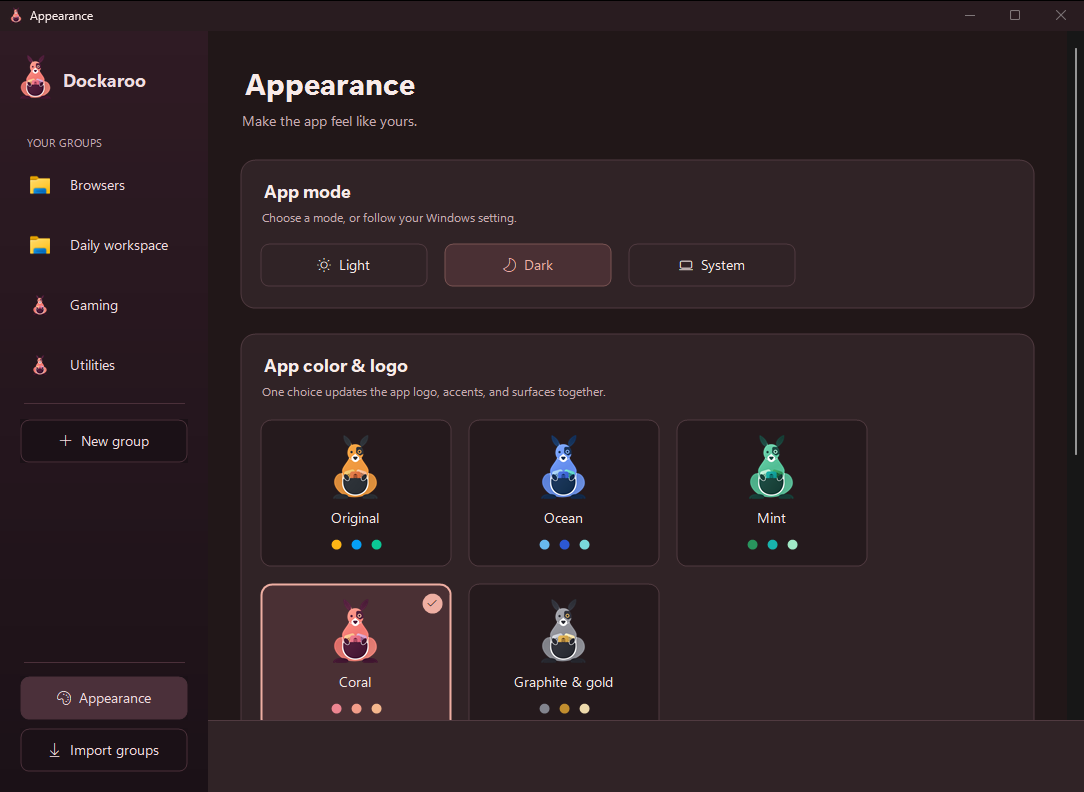
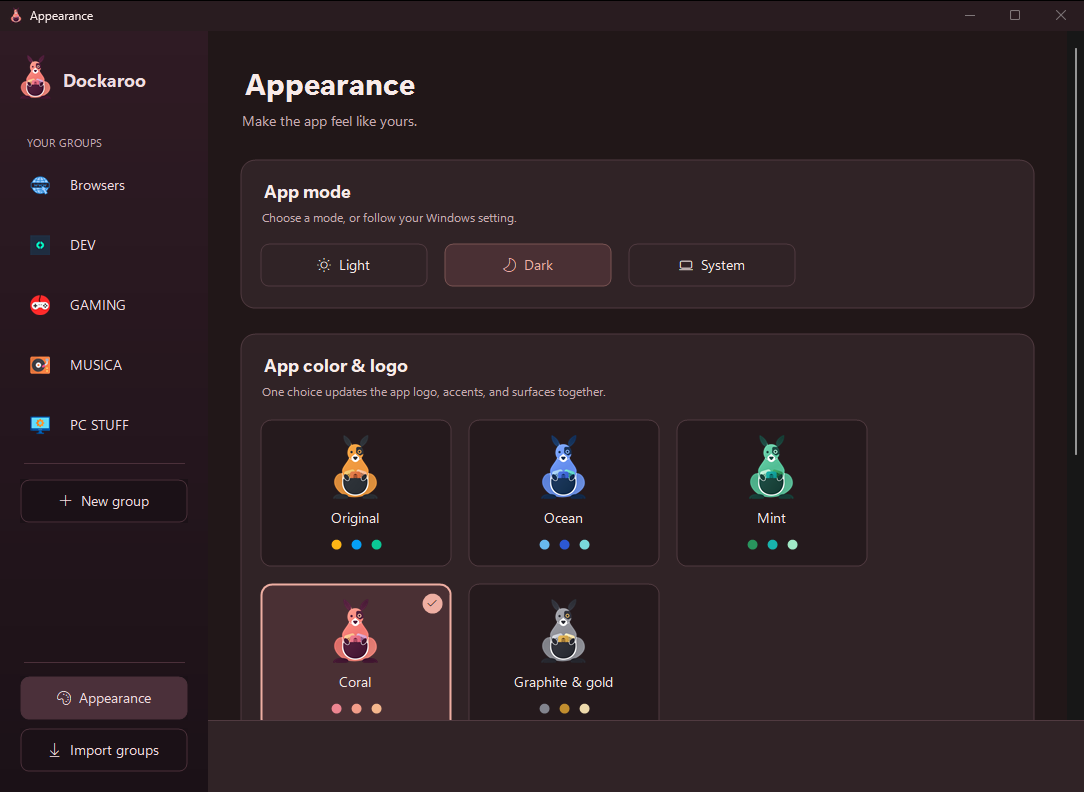
README: my real groups, grey palette, centred hero
- Hero: my DEV group's popup, centred on its button in the middle of
  the taskbar, with my other pinned groups and the graphite & gold tray
  icon. Transparency strip uses the same popup.
- Editor and Appearance shots show my groups in Graphite & gold.
  EditorCapture can now copy chosen group folders from a config dir
  (read-only) and open one of them; it also captures graphite dark.
- Header logo is the graphite & gold kangaroo.

diff --git a/tools/EditorCapture/Program.cs b/tools/EditorCapture/Program.cs
@@ -1,11 +1,14 @@
 // Editor capture: the editor and Appearance page in several palettes/modes and two window sizes.
 // Off-screen at (-32000,-32000), SW_SHOWNOACTIVATE, PrintWindow; temp data only; never activated.
-// Usage: EditorCapture <outDir>  (PNG files + editor-capture.txt log)
+// Usage: EditorCapture <outDir> [<configDir> <openGroup> <groupFolder>...]
+//   (PNG files + editor-capture.txt log). With a config dir, the listed group folders are COPIED
+//   into the temp root (the source is only read) and <openGroup> is shown instead of the sample.
 using System;
 using System.Collections.Generic;
 using System.Drawing;
 using System.Drawing.Imaging;
 using System.IO;
+using System.Linq;
 using System.Reflection;
 using System.Runtime.InteropServices;
 using System.Windows.Forms;
@@ -28,15 +31,29 @@ internal static class Program
             ("mint", ResolvedMode.Dark, 1440, 960, "appearance-mint-dark-1440", true),
             ("graphite-gold", ResolvedMode.Light, 1440, 960, "appearance-graphite-light-1440", true),
             ("coral", ResolvedMode.Dark, 1100, 800, "appearance-coral-dark-1100", true),
+            ("graphite-gold", ResolvedMode.Dark, 1440, 960, "graphite-dark-1440", false),
+            ("graphite-gold", ResolvedMode.Dark, 1440, 960, "appearance-graphite-dark-1440", true),
         };
+        var sourceConfig = args.Length > 2 ? args[1] : null;
+        var openGroup = sourceConfig is null ? "Daily workspace" : args[2];
 
         try
         {
             Application.SetHighDpiMode(HighDpiMode.PerMonitorV2);
             Application.EnableVisualStyles();
-            var store = new GroupStore(Path.Combine(root, "config"));
             var sys = Environment.SystemDirectory;
             var win = Environment.GetFolderPath(Environment.SpecialFolder.Windows);
+            if (sourceConfig is not null)
+            {
+                foreach (var folder in args.Skip(3))
+                {
+                    CopyDirectory(Path.Combine(sourceConfig, folder), Path.Combine(root, "config", folder));
+                }
+            }
+
+            var store = new GroupStore(Path.Combine(root, "config"));
+            if (sourceConfig is null)
+            {
             Seed(store, "Daily workspace", 6, true, 10,
                 (Path.Combine(win, "explorer.exe"), "Browser", "", ""),
                 (Path.Combine(sys, "notepad.exe"), "Code editor", "--new-window", @"C:\Projects"),
@@ -45,6 +62,7 @@ internal static class Program
             Seed(store, "Browsers", 6, false, 10, (Path.Combine(win, "explorer.exe"), "Explorer", "", ""));
             Seed(store, "Gaming", 6, false, 10, (Path.Combine(sys, "taskmgr.exe"), "Task manager", "", ""));
             Seed(store, "Utilities", 6, false, 10, (Path.Combine(sys, "calc.exe"), "Calculator", "", ""));
+            }
 
             var app = Assembly.Load("Dockaroo");
             var themeType = app.GetType("Dockaroo.App.Editor.Theming.StaticThemeSource", true);
@@ -81,12 +99,16 @@ internal static class Program
                 editor.Size = new Size(run.W, run.H);
                 ShowWindow(editor.Handle, 4);
 
-                // Sample state from the spec: "Daily workspace", second shortcut selected, one edit (dirty).
-                editorType.GetMethod("LoadGroupByName", BindingFlags.Instance | BindingFlags.NonPublic).Invoke(editor, new object[] { "Daily workspace" });
+                // Sample state from the spec: "Daily workspace", second shortcut selected, one edit
+                // (dirty). Real groups are shown as saved, with their third shortcut selected.
+                editorType.GetMethod("LoadGroupByName", BindingFlags.Instance | BindingFlags.NonPublic).Invoke(editor, new object[] { openGroup });
                 var entries = editorType.GetField("_entries", BindingFlags.Instance | BindingFlags.NonPublic).GetValue(editor);
-                entries.GetType().GetMethod("SelectIndex").Invoke(entries, new object[] { 1 });
-                var width = editorType.GetField("_width", BindingFlags.Instance | BindingFlags.NonPublic).GetValue(editor);
-                width.GetType().GetProperty("Value").SetValue(width, 4);
+                entries.GetType().GetMethod("SelectIndex").Invoke(entries, new object[] { sourceConfig is null ? 1 : 2 });
+                if (sourceConfig is null)
+                {
+                    var width = editorType.GetField("_width", BindingFlags.Instance | BindingFlags.NonPublic).GetValue(editor);
+                    width.GetType().GetProperty("Value").SetValue(width, 4);
+                }
 
                 if (run.Appearance)
                 {
@@ -111,6 +133,15 @@ internal static class Program
         finally
         {
             try { Directory.Delete(root, true); } catch { }
+        }
+    }
+
+    private static void CopyDirectory(string from, string to)
+    {
+        Directory.CreateDirectory(to);
+        foreach (var file in Directory.GetFiles(from))
+        {
+            File.Copy(file, Path.Combine(to, Path.GetFileName(file)));
         }
     }
 

diff --git a/README.md b/README.md
@@ -9,7 +9,7 @@
 </p>
 
 <p align="center">
-  <img src="docs/images/hero.png" alt="A Dockaroo popup open above its pinned taskbar button">
+  <img src="docs/images/hero.png" alt="My DEV group's popup open above its pinned taskbar button">
 </p>
 
 Windows 11 took away taskbar toolbars, so you either pin every app you use or dig through the
@@ -17,8 +17,10 @@ Start menu. Dockaroo puts a group of apps behind a single taskbar button. Click 
 small popup opens right on top of it, drawn to look like part of the taskbar. Click an app and
 it launches. Click anywhere else and the popup is gone.
 
-Dockaroo is a work in progress. It already runs my own taskbar. The screenshots below come
-from the app itself (see [How the screenshots were made](#how-the-screenshots-were-made)).
+Dockaroo is a work in progress. It already runs my own taskbar: Browsers, GAMING, DEV, MUSICA
+and PC STUFF are all Dockaroo groups, and the image above is my DEV group open. The screenshots
+come from the app itself (see [How the screenshots were made](#how-the-screenshots-were-made)).
+
 
 ## What it does
 
@@ -47,7 +49,7 @@ from the app itself (see [How the screenshots were made](#how-the-screenshots-we
 Groups, their shortcuts, popup settings and a live taskbar preview on one page. You can drag
 apps, shortcuts or folders onto the list.
 
-![Group editor, Mint palette, dark mode](docs/images/editor-dark.png)
+![Group editor showing my DEV group, Graphite & gold palette, dark mode](docs/images/editor-dark.png)
 
 ![Group editor, Ocean palette, light mode](docs/images/editor-light.png)
 
@@ -55,7 +57,7 @@ apps, shortcuts or folders onto the list.
 
 One choice sets the app logo, accents and surfaces, and the tray icon follows it.
 
-![Appearance page, Mint, dark](docs/images/appearance-dark.png)
+![Appearance page, Graphite & gold, dark](docs/images/appearance-dark.png)
 
 ![Appearance page, Graphite & gold, light](docs/images/appearance-light.png)
 
@@ -71,7 +73,7 @@ A cyborg kangaroo with the group's apps in its pouch, in all five palettes.
 
 ### Popup transparency
 
-The same popup at 0%, 40% and 80% transparency. Only the background fades.
+My DEV popup at 0%, 40% and 80% transparency. Only the background fades.
 
 ![The same popup at 0, 40 and 80 percent transparency](docs/images/transparency.png)
 
@@ -93,7 +95,7 @@ Done:
 - [x] Per-monitor DPI (PerMonitorV2) for the popup and the editor
 - [x] Importer for the legacy app's configuration
 - [x] Popup transparency on the background only
-- [x] Test suite: 298 core tests and 167 app tests (xUnit)
+- [x] Test suite: 298 core tests and 168 app tests (xUnit)
 
 Next:
 
@@ -146,10 +148,10 @@ tools/               off-screen capture tools used for visual checks
 ## How the screenshots were made
 
 The editor screenshots come from `tools/EditorCapture`, which opens the real editor off-screen
-with sample data and captures it with `PrintWindow`. The popup images are the popup's own
-rendered frames (the exact bitmap the window shows) placed over a drawn backdrop and taskbar.
-None of them are mockups of features that don't exist. The project's test rules forbid
-capturing the real desktop, so there is no live taskbar screenshot yet.
+on a copy of my groups and captures it with `PrintWindow`. The popup images are the popup's own
+rendered frames (the exact bitmap the window shows) for my DEV group. The wallpaper and the
+taskbar around them are drawn, using my real group icons. The project's test rules forbid
+capturing the real desktop, so there is no live screenshot yet.
 
 ## Credits and license
 
